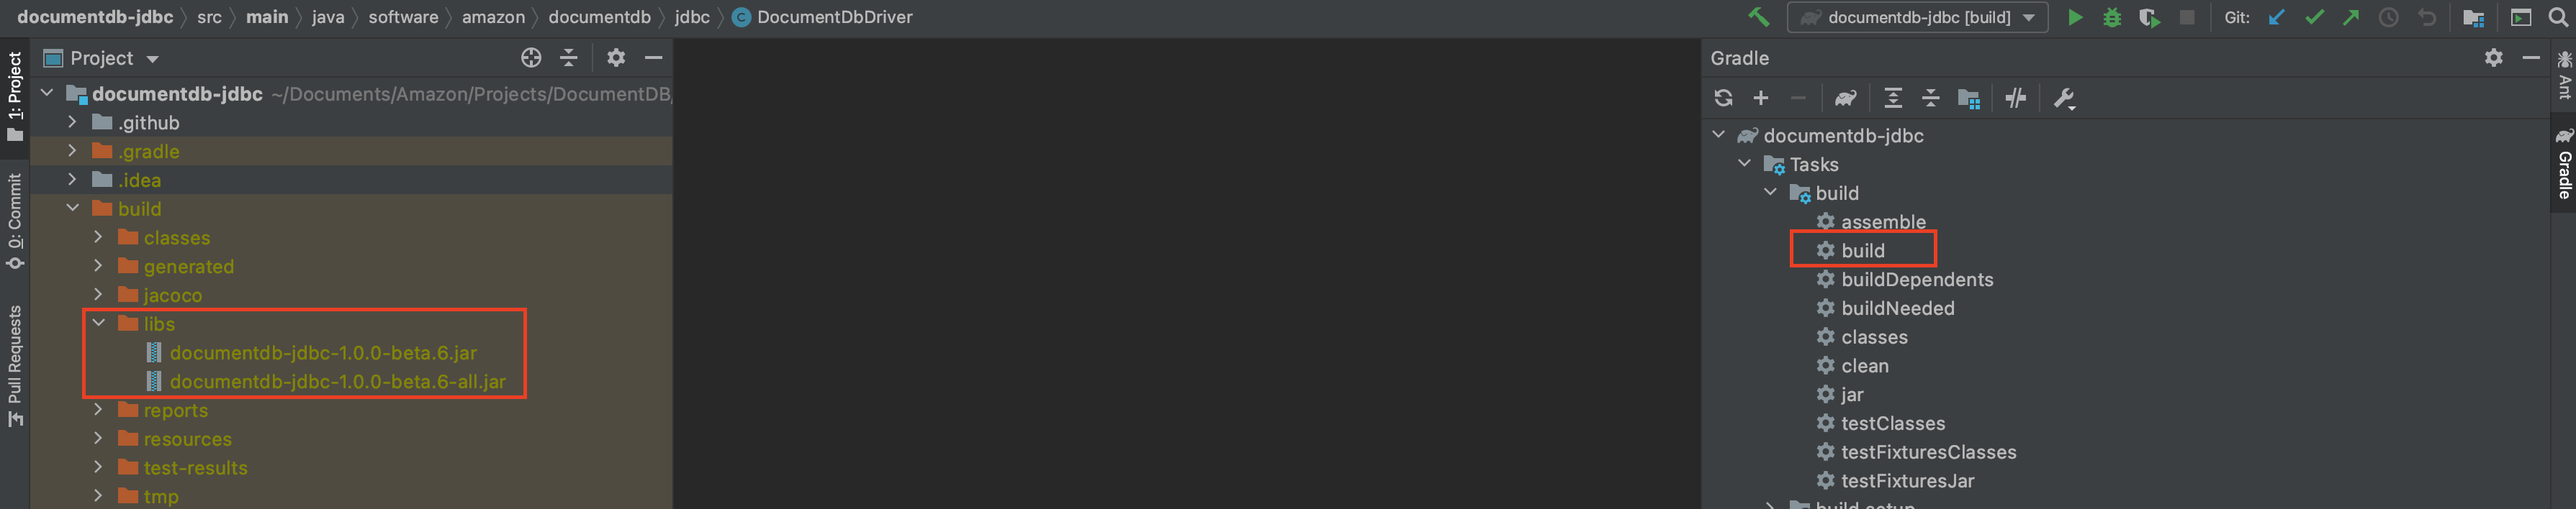
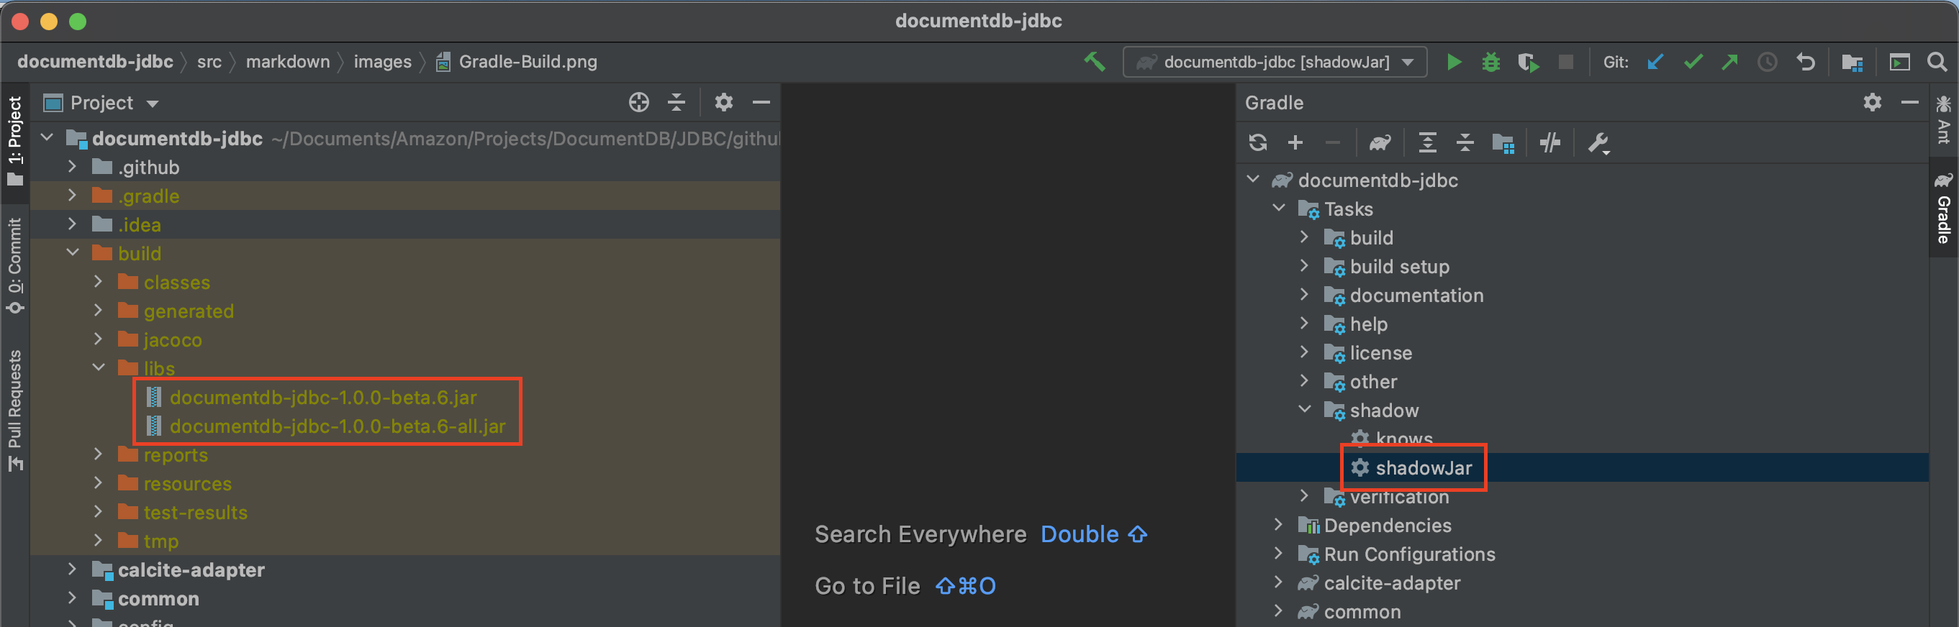
Corrected build instructions (use shadowJar)

Changed region(s): [[0.0, 0.0, 1.0, 1.0]]

diff --git a/GETTING_STARTED.md b/GETTING_STARTED.md
@@ -20,7 +20,7 @@ This document provides instructions on how to install and setup Java (JDK 1.8) a
 
 ### Building Project with Gradle
 1. In IntelliJ, open Gradle tool window: navigate to the top menu toolbar *View → Tool Windows → Gradle*.
-2. In the Gradle tool window, build the project by double-clicking on gradle task *documentdb-jdbc → Tasks → build → build*.
+2. In the Gradle tool window, build the project by double-clicking on gradle task *documentdb-jdbc → Tasks → shadow → shadowJar*.
 3. After build and compilation, a .jar file should be created in your repository in the subfolder *documentdb-jdbc/build/libs*.
 
 ![Gradle Build](src/markdown/images/Gradle-Build.png)
